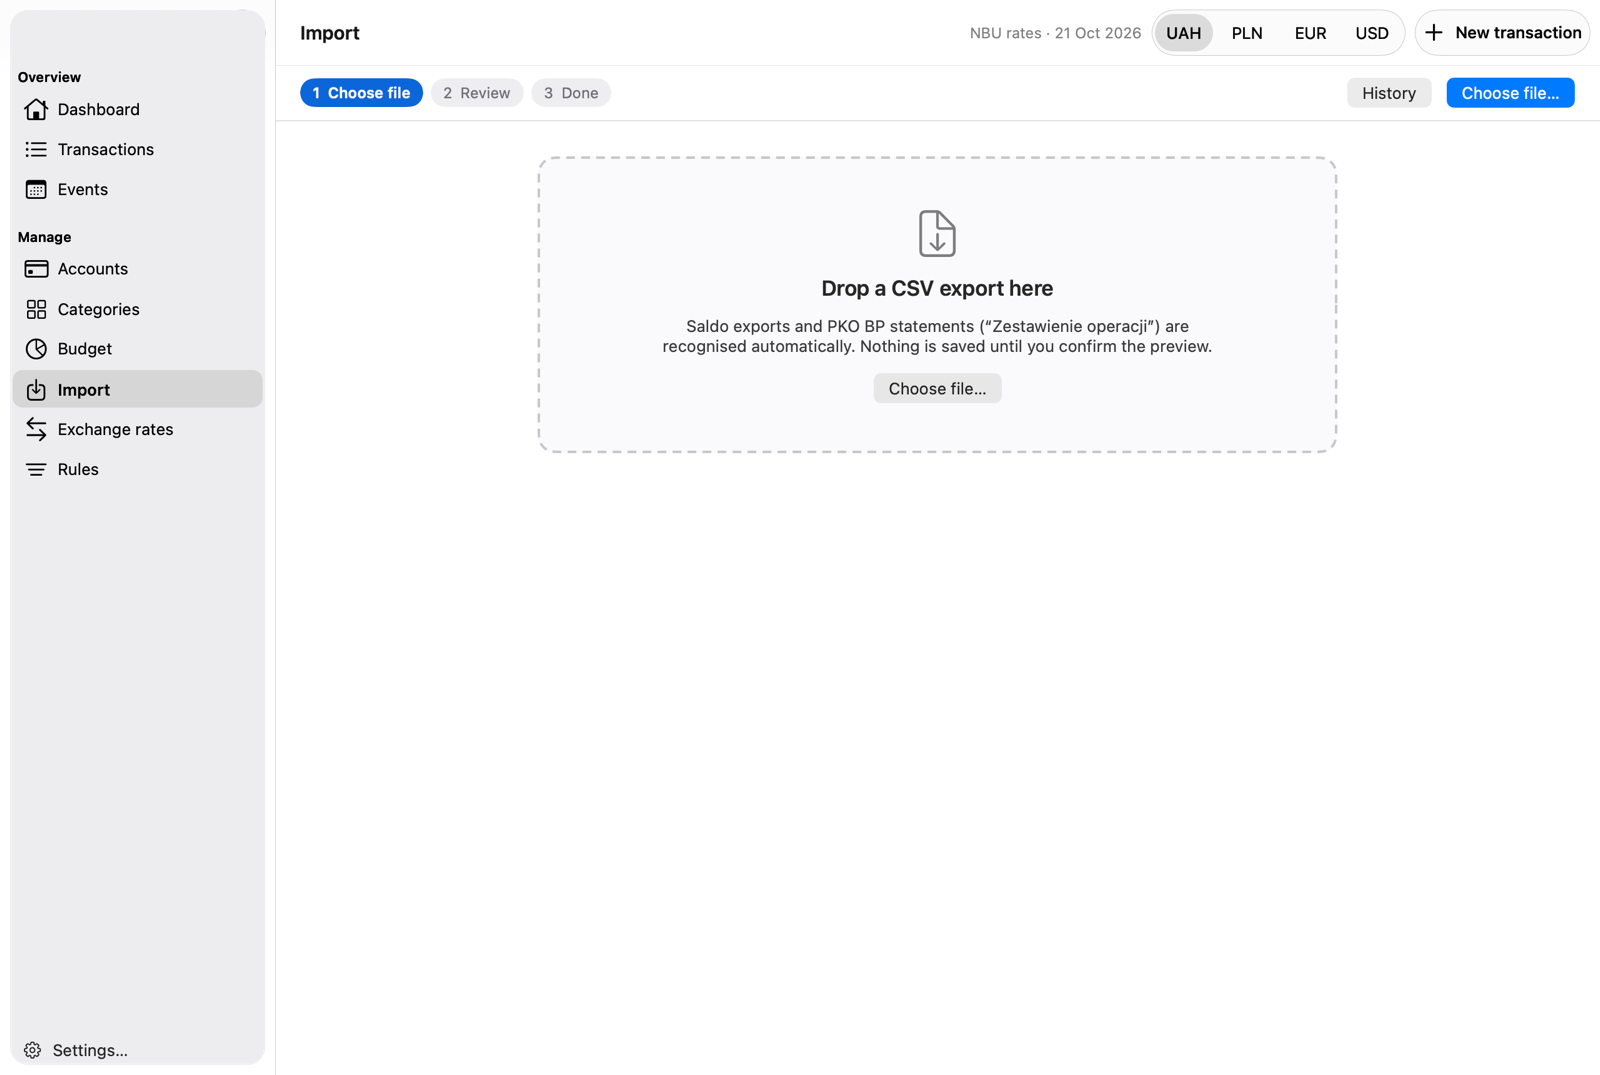
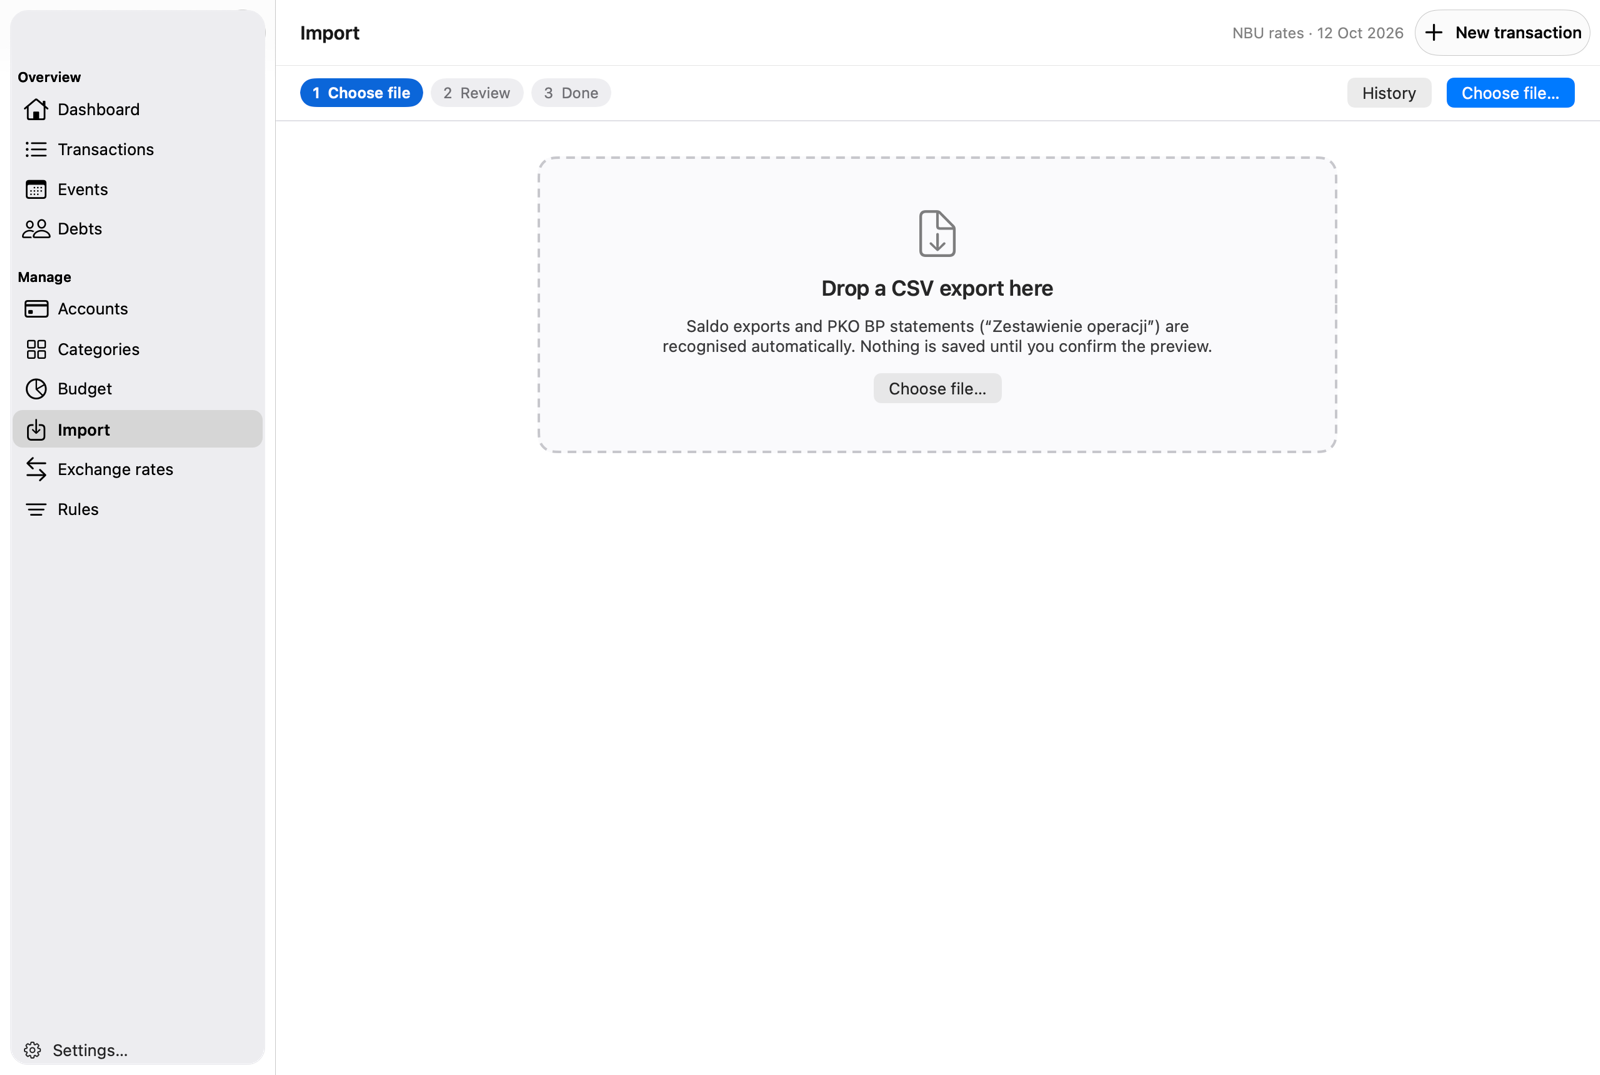
README and screenshots for 1.2.1; status and hand-off brought up to date
- README: features for groups, debts, rules rollback, widgets; updating note; ⌘1…⌘0
- New screenshots from Load Sample Data on scratch databases: dashboard (light, dark),
  transactions, accounts, categories, budget, debts, rules, import, rates, settings
- STATUS: Now / Next / Open items for 1.2.1; PLAN: test builds 1.1.0 and 1.2.0 superseded
- NEXT.md: hand-off from the 1.2.1 state

Verified: screenshots reviewed (synthetic data only); docs only otherwise

Changed region(s): [[0.0, 0.1842, 0.1875, 0.4912], [0.7188, 0.0, 0.875, 0.0614]]

diff --git a/README.md b/README.md
@@ -12,35 +12,47 @@ no telemetry; the only network traffic is fetching exchange rates.
 
 ## Features
 
-- **Dashboard**: net worth with a 12-month chart (assets minus liabilities, converted at the
-  latest rate), the month's budget with per-category bars, and a monthly expenses donut. Click a
-  slice to see its transactions. Switch the display currency (UAH, PLN, EUR, USD) at any time.
-- **Accounts**: cash, bank accounts, cards, savings, investments, credit cards, loans and personal
-  debts, in groups, with opening balances. Archive old accounts to keep their history out of
-  net worth.
+- **Dashboard**: net worth with a 12-month chart and a breakdown by account group, the month's
+  budget, monthly expense and income donuts (click a slice to see its transactions), income vs
+  expenses for the last 12 months, and your debts. Drag widgets into the order you like. Switch
+  the display currency (EUR, USD, PLN, UAH) at any time.
+- **Accounts**: cash, bank accounts, cards, savings, investments, credit cards and loans, with
+  opening balances, in **groups** (Monobank, PKO, …) that show their total. Drag an account into
+  a group, or onto another account to make a new group. Search, sort and filter by currency;
+  archive old accounts to keep their history out of net worth.
 - **Transactions**: expenses, income and transfers (also between currencies), refunds, and
   attached lines for fees, cashback or splitting one payment across categories. You can pay in
   any currency and record what the account was actually charged. Pending bank holds are marked
   until they settle.
-- **Transaction list**: last 30 days by default, grouped by day, with filters for date, category,
-  account, type and event, text search, and income / expense / net totals for what you see.
-- **Categories** with one level of subcategories, a **monthly budget** split across categories,
-  and **events** (a trip, a move, the car) that collect spending across categories.
+- **Transaction list**: last 30 days by default, grouped by day, with search, filters for date,
+  category, account, type and event, and income / expense / net totals for what you see.
+- **Categories** with one level of subcategories and their own colours: drag one onto another
+  to nest it, sort by name, custom order or date, and search. Transactions without a category
+  share one built-in "Uncategorised".
+- **Budget**: a monthly total in any currency plus category limits, each in its own currency,
+  with what's left unallocated. **Events** (a trip, a move, the car) collect spending across
+  categories.
+- **Debts**: who owes you and whom you owe, per person and currency: lent, repaid, borrowed,
+  paid on their behalf, forgiven. Choose per record whether it counts as an expense or income,
+  and per debt whether it counts in net worth.
 - **Import** with a preview before anything is saved: Saldo CSV exports (accounts, categories,
   transfers and tags as events) and PKO BP "Zestawienie operacji" CSV statements. Re-importing an
   overlapping file never creates duplicates, likely duplicates from other sources are flagged,
-  your choices become categorisation rules for next time, and any import can be undone.
+  and any import can be undone.
+- **Rules** like "description contains *biedronka* → Groceries" or "amount bigger than 100 →
+  transfer to an account", learned from your import choices or written by hand. Apply a rule to
+  existing transactions and roll it back if it was wrong.
 - **Exchange rates**: official NBU rates fetched on launch and daily, cached for offline use,
   with a 30-day history per currency. Set a manual rate for a day, or from a day on, when your
   bank charged something else.
-- **Settings**: default display currency, how refunds are counted, automatic rate updates, and
-  backup export / restore.
+- **Settings**: default display currency, how refunds are counted, automatic rate updates, the
+  data folder, and backup export / restore.
 
 The full functional description is in the [tech assignment](docs/REQUIREMENTS.md).
 
 ## Screenshots
 
-All screenshots show the built-in sample data (synthetic).
+All screenshots show the built-in sample data: made-up accounts, people and amounts.
 
 <table>
   <tr>
@@ -49,32 +61,46 @@ All screenshots show the built-in sample data (synthetic).
       <sub>Dashboard, dark mode</sub>
     </td>
     <td align="center" valign="top">
-      <img src="docs/screenshots/transactions.png" alt="Transaction list with filters" width="420"><br>
+      <img src="docs/screenshots/transactions.png" alt="Transaction list with search and filters" width="420"><br>
       <sub>Transactions</sub>
     </td>
   </tr>
   <tr>
     <td align="center" valign="top">
-      <img src="docs/screenshots/accounts.png" alt="Accounts grouped with balances and the account editor" width="420"><br>
-      <sub>Accounts</sub>
+      <img src="docs/screenshots/accounts.png" alt="Accounts in groups with their totals" width="420"><br>
+      <sub>Accounts and groups</sub>
     </td>
     <td align="center" valign="top">
-      <img src="docs/screenshots/budget.png" alt="Monthly budget split across categories" width="420"><br>
-      <sub>Monthly budget</sub>
+      <img src="docs/screenshots/categories.png" alt="Categories with subcategories and colours" width="420"><br>
+      <sub>Categories</sub>
     </td>
   </tr>
   <tr>
+    <td align="center" valign="top">
+      <img src="docs/screenshots/budget.png" alt="Monthly budget with a total and limits in several currencies" width="420"><br>
+      <sub>Monthly budget</sub>
+    </td>
+    <td align="center" valign="top">
+      <img src="docs/screenshots/debts.png" alt="Debts per person and currency with records" width="420"><br>
+      <sub>Debts</sub>
+    </td>
+  </tr>
+  <tr>
+    <td align="center" valign="top">
+      <img src="docs/screenshots/rules.png" alt="Rules with description and amount conditions" width="420"><br>
+      <sub>Rules</sub>
+    </td>
     <td align="center" valign="top">
       <img src="docs/screenshots/import.png" alt="Import, step 1: choose a Saldo or PKO file" width="420"><br>
       <sub>Import, step 1</sub>
     </td>
+  </tr>
+  <tr>
     <td align="center" valign="top">
       <img src="docs/screenshots/rates.png" alt="Exchange rates with 30-day history and manual rates" width="420"><br>
       <sub>Exchange rates</sub>
     </td>
-  </tr>
-  <tr>
-    <td align="center" valign="top" colspan="2">
+    <td align="center" valign="top">
       <img src="docs/screenshots/settings-general.png" alt="Settings, General tab" width="420"><br>
       <sub>Settings › General</sub>
     </td>
@@ -97,6 +123,10 @@ All screenshots show the built-in sample data (synthetic).
    xattr -dr com.apple.quarantine /Applications/Abacus.app
    ```
 
+**Updating**: quit Abacus, then replace the app. A new version may update the database on its
+first launch, so back up `~/Library/Application Support/Abacus/abacus.sqlite` first (or use
+Settings › Data › Export backup).
+
 To check the download, compare `shasum -a 256 Abacus-<version>.dmg` with the published
 `.sha256` file.
 
@@ -112,9 +142,9 @@ Abacus starts empty. Pick one:
   (remembered for next time). Import newer statements whenever you like: rows already imported
   are skipped and pending card holds are updated when they settle.
 - **Just look around**: **Help › Load Sample Data** fills an empty database with synthetic
-  accounts, transactions and a budget. It does nothing if you already have data.
+  accounts, transactions, a budget, events and debts. It does nothing if you already have data.
 
-Then add transactions by hand with **New transaction** (⌘N). Sections are on ⌘1…⌘9, Refresh
+Then add transactions by hand with **New transaction** (⌘N). Sections are on ⌘1…⌘0, Refresh
 Rates is ⌘R, Settings is ⌘,.
 
 ## Your data

diff --git a/docs/STATUS.md b/docs/STATUS.md
@@ -1,19 +1,29 @@
 # Status
 
-_Last updated: 2026-10-27 (orchestrator)_
+_Last updated: 2026-10-27 (orchestrator, late)_
 
 ## Now
 
-_Updated 2026-10-22 (orchestrator)._ **v1 is feature-complete and merged** (P0, D1, A1–A6,
-B1–B6, C1, C2, R1). 534 tests pass locally (incl. real-data tests); the app builds; GitHub CI
-is not used (D37). The owner's real Saldo history and PKO statement are in the app database.
+_Updated 2026-10-27 (orchestrator)._ **1.2.1 is on `main`** (version 1.2.1, build 4) and is the
+build the owner is testing; it is **not tagged**. Released so far: only `v1.0.0` (tag, 2026-10-27).
+1.1.0 and 1.2.0 were test builds and are folded into 1.2.1 (see CHANGELOG).
 
-_Updated 2026-10-27:_ C3 merged — the Import section no longer grows the window (root cause:
-a vertical `fixedSize` on the choose-file paragraph; see `docs/status/C3.md`). Every section now
-opens at the same default window height. **v1.0.0 released 2026-10-27**: tag `v1.0.0`, DMG built
-locally with `scripts/build-dmg.sh` (`dist/Abacus-1.0.0.dmg`, not committed; `hdiutil verify`
-valid, app codesign valid). Remaining: owner review of the app on real data and of the C2
-interpretations (D40); deferred small items on request.
+- Done since v1.0.0 (all merged, gate green, 695 tests incl. real-data tests):
+  - Phase 3c, owner review of 1.0.0: C3 import window height, C4 navigation, C5 colours,
+    C6 budget currency, C7 rules.
+  - Phase 3d, owner review of 1.1.0: C8 budget total, C9 rules rollback, C10 categories,
+    C11 transactions/events, C12 account groups, C13 dashboard widgets, C14 debts.
+  - Phase 3e, stability: S1 crashes and speed, S2 native outline lists and sheet editors,
+    S3 budget Save states and the rules tester removed.
+- Database: migrations v4–v11 run on the owner's real database at the first launch of 1.1.0+.
+  The debts conversion (v10) was checked on the real Saldo export in memory (balances and net
+  worth unchanged). The owner backs up `abacus.sqlite` before installing.
+- README rewritten for 1.2.1 with new screenshots (sample data only, 2026-10-27).
+- `build.noindex/` is the build output folder (Spotlight skips it); the old `build/` can be deleted.
+
+**Waiting on the owner**: test 1.2.1 (`dist/Abacus-1.2.1.dmg`), especially real mouse drag and
+drop, then the OK to tag `v1.2.1`; confirm the lane interpretations in `docs/status/C6.md` to
+`C14.md` and `S1.md`–`S3.md`.
 
 ## Done
 
@@ -26,8 +36,16 @@ interpretations (D40); deferred small items on request.
 
 ## Next
 
-See "Open items" at the end: Import window height, then the v1.0.0 DMG and tag. The hand-off for
-a new orchestrator session is `docs/NEXT.md` (`scripts/next-session.sh` prints and copies it).
+1. Owner tests 1.2.1; fix what they report on a lane, rebuild the DMG.
+2. On the owner's OK: set the CHANGELOG date for 1.2.1, commit, tag `v1.2.1`, push the tag,
+   attach `dist/Abacus-1.2.1.dmg` (+ `.sha256`) to a GitHub release (text drafted in the session:
+   fixed / changed / install / back up first).
+3. Deferred, only on request: merge the "card" and "bank account" kinds (they behave the same);
+   SQL aggregates for balances/usage counts beyond ~20k transactions (S1); combine the save
+   cascade's per-screen reloads (S1).
+
+The hand-off for a new orchestrator session is `docs/NEXT.md` (`scripts/next-session.sh` prints
+and copies it).
 
 ## In flight
 
@@ -136,29 +154,24 @@ a new orchestrator session is `docs/NEXT.md` (`scripts/next-session.sh` prints a
 - Contracts on `main` for Phase 3 lanes: `TxnQuery.includeUncategorised`, `TxnQuery.importBatchIDs`,
   `SettingKey.lastBackupExport`.
 
-## Open items (2026-10-22)
+## Open items (2026-10-27)
 
-- ~~Import window height~~ → fixed in C3 (2026-10-27). Note: the in-app snapshot of the
-  default window is 1,018 pt on the owner's 1,117 pt-high screen for every section, not the
-  860 pt in `.defaultSize`; that is the window default, not an Import leak.
-- ~~Release~~ → v1.0.0 tagged and pushed 2026-10-27 (DMG local only).
-- **1.2.1 (stability + owner review of 1.2.0, S1–S3)**: merged on `main`, version 1.2.1 (build 4), DMG
-  built locally for owner testing; not tagged. Soak run on a 5,000-transaction scratch database:
-  no crash; debug-build main-thread pauses of 120–600 ms remain around sheet open/close.
-  Real mouse drag and drop not yet tried by anyone but the owner.
-- **1.2.0 (owner review of 1.1.0, C8–C14)**: merged on `main`, version 1.2.0 (build 3), DMG
-  built locally for owner testing; **not tagged** until the owner's OK. First launch runs
-  migrations v8–v11 (rule applications, category createdAt, debts, account groups) on the real
-  database; owner backs up `abacus.sqlite` first. Lane interpretations to confirm are in
-  `docs/status/C8.md` … `C14.md`.
-- **1.1.0 (owner review of 1.0.0, C4–C7)**: merged on `main`, version 1.1.0 (build 2), DMG built
-  locally for owner testing; **not tagged** until the owner has tested it. First launch runs
-  migrations v4–v6 on the real database (tested only on synthetic pre-change databases) — owner
-  backs up `abacus.sqlite` first. Owner to confirm the C6 and C7 interpretations (status notes).
-- **Deferred, small**: an open editor doesn't pick up rates fetched by other screens until its own
-  request returns (C2); per-protocol count/balance queries for very large data (B5/C1 notes).
-- **Owner checks**: real-data look of every screen; 281 "Uncategorised" rows to review (Import /
-  Transactions › Categories › Uncategorised); C2 choices (D40).
+- ~~Import window height~~ → fixed in C3.
+- ~~Release v1.0.0~~ → tagged and pushed 2026-10-27.
+- ~~1.1.0 / 1.2.0 test builds~~ → superseded by 1.2.1.
+- **1.2.1**: owner testing; tag after the OK. Known: debug-build main-thread pauses of
+  120–600 ms around sheet open/close (AppKit animation, S1); real mouse drag and drop on the new
+  outline lists not yet tried by anyone but the owner (no Accessibility permission for
+  synthetic events here).
+- **Owner checks**: lane interpretations (C6–C14, S1–S3 status notes); "Uncategorised" rows to
+  review; C2 choice D40 (data folder move deletes the old file after a verified copy).
+- **Deferred, small**: an open editor doesn't pick up rates fetched by other screens until its
+  own request returns (C2); card vs bank account merge; very-large-data SQL aggregates.
+
+Debug tools for checks (DEBUG builds, scratch databases only): `-AbacusLoadLargeSampleData YES`,
+`-AbacusSoak YES`, `-AbacusHangWatch YES`, `-AbacusOpenSheet …`, `-AbacusDashboardScrollTo …`,
+`-AbacusBudgetDemo edited|saved`, `-AbacusWindowWidth/-AbacusWindowHeight` (see the S1, S2, S3,
+C11, C13, C14 status notes).
 
 ## How to check the UI safely (never on the owner's real data)
 

diff --git a/docs/NEXT.md b/docs/NEXT.md
@@ -14,20 +14,23 @@ commit and push without asking.
    check the UI safely"), `docs/PLAN.md`, `docs/DECISIONS.md`. Skim `docs/REQUIREMENTS.md`
    only for the requirement IDs you touch.
 2. Check the ground truth before acting: `git status`, `git log --oneline -15`, then run the
-   gate from `AGENTS.md` — `swift test` in `AbacusKit/` and the app build, both with
-   `DEVELOPER_DIR=/Applications/Xcode.app/Contents/Developer`. Real-data tests run with
+   gate from `AGENTS.md` — `swift test` in `AbacusKit/` and the app build (`-derivedDataPath
+   build.noindex`), both with `DEVELOPER_DIR=/Applications/Xcode.app/Contents/Developer`. Real-data tests run with
    `ABACUS_SAMPLES=$PWD/samples/private` and print counts only.
-3. Finish the open items in `docs/STATUS.md`, in this order:
-   a. **Import window height** — the Import section makes the main window taller than the
-      860 pt default. Reproduce with the in-app snapshot on a temporary database
-      (`CFFIXED_USER_HOME=<scratch>` plus `-AbacusDatabasePath <scratch>/demo.sqlite
-      -AbacusLoadSampleData YES -AbacusSection importFiles -AbacusSnapshotDir <scratch>
-      -AbacusSnapshotName import -AbacusSnapshotDelay 5`; compare the PNG height with the
-      Dashboard's). Fix it in `App/macOS/Import/`, verify, commit.
-   b. **Release v1.0.0** — on final `main`: `scripts/build-dmg.sh`, `hdiutil verify` the DMG,
-      set the CHANGELOG date to the release day, commit, tag `v1.0.0`, push the commit and the
-      tag. Report the DMG path, size and SHA-256 to the owner. Never commit the DMG.
-   c. Pick up the small deferred items listed there only if the owner asks.
+3. State as of 2026-10-27: everything planned is merged on `main` — v1.0.0 (tagged), then the
+   owner-review rounds C3–C14 and the stability round S1–S3 (see `docs/PLAN.md` Phases 3c–3e).
+   `main` is version **1.2.1** (build 4); the owner is testing `dist/Abacus-1.2.1.dmg`; it is
+   **not tagged**. Done and no longer to do: the Import window height (C3) and the v1.0.0
+   release. Next, in this order:
+   a. **Owner feedback on 1.2.1** — triage it into bugs vs features, stability and
+      performance first (owner rule, D54). Reproduce crashes from
+      `~/Library/Logs/DiagnosticReports/Abacus-*.ips` (stacks only) and with the DEBUG soak
+      (`-AbacusSoak YES -AbacusHangWatch YES` on a scratch database with
+      `-AbacusLoadLargeSampleData YES`). Fix on lanes, merge, rebuild the DMG.
+   b. **Release v1.2.1** on the owner's OK: set the CHANGELOG date, commit, tag `v1.2.1`, push
+      the tag; report DMG path, size and SHA-256. Never commit the DMG. The owner publishes the
+      GitHub release.
+   c. Deferred items in `docs/STATUS.md` ("Next" 3, "Open items") only if the owner asks.
 4. For larger work, run lanes as described in `docs/PLAN.md` §4 (one work package per agent,
    each in its own git worktree on a `wp/<id>-<slug>` branch, progress in
    `docs/status/<id>.md`); review each lane's diff scope, run the gate, merge with `--no-ff`,
@@ -39,7 +42,7 @@ Hard rules (from the owner; also in `AGENTS.md`):
 - The owner's real data lives in `~/Library/Application Support/Abacus/abacus.sqlite` and
   `samples/private/` (git-ignored). Never write to the real database from tests or tools, never
   screenshot it, never copy real names or amounts into the repository. Use temporary databases
-  with Load Sample Data for anything visual.
+  with Load Sample Data (synthetic) for anything visual; README screenshots use only that.
 - Git identity is the repo's own (`andrii-habchak`, personal email) and the remote uses the SSH
   alias `github-vigil`; never change them.
 - GitHub CI is not used (free account, D37); the local gate decides.

diff --git a/docs/PLAN.md b/docs/PLAN.md
@@ -125,7 +125,7 @@ Each owns `App/macOS/<Feature>/**` and `AbacusFeatures/<Feature>/**`.
   transaction icons. Migration "v4: colours".
 - [x] **C6 Budget currency** (merged 2026-10-27) — per-category limit currency, no separate total. Migration "v5".
 - [x] **C7 Rules** (merged 2026-10-27) — Saldo-like conditions and category/transfer actions. Migration "v6: rules".
-- [ ] **Release 1.1.0** — DMG built for owner testing; superseded by the 1.2.0 round below.
+- [x] **Release 1.1.0** — test build only; superseded by 1.2.1.
 
 ### Phase 3d — Owner review of 1.1.0 (2026-10-27, TA v1.6, D46–D50)
 Wave 1 (parallel):
@@ -142,13 +142,13 @@ Wave 2:
   net worth hierarchy.
 - [x] **C13 Dashboard widgets** (merged 2026-10-27) — income donut, income vs expenses, drag-reorder widgets.
 - [x] **C14 Debts** (merged 2026-10-27; migration v10; widget scroll fix pending) — `R-DEBT` (TA v1.7, D51).
-- [ ] **Release 1.2.0** — DMG built for owner testing; superseded by 1.2.1 below.
+- [x] **Release 1.2.0** — test build only; superseded by 1.2.1.
 
 ### Phase 3e — Stability and owner review of 1.2.0 (2026-10-27, D54–D56)
 - [x] **S1 Stability and performance** (merged 2026-10-27) — crashes (binding force-unwrap, Escape), hangs, reload storms, timing on owner-size data.
 - [x] **S2 Accounts and categories lists** (merged 2026-10-27) — native outline drag and drop, sheet editors, split New account button, new-tx prefill for accounts.
 - [x] **S3 Budget and rules polish** (merged 2026-10-27) — Save button states, remove the rules tester row.
-- [ ] **Release 1.2.1**.
+- [ ] **Release 1.2.1** — DMG built 2026-10-27, owner testing; tag after the OK.
 
 ### Phase 4 — v2 (planned after v1)
 iOS app on `AbacusFeatures`, iCloud sync via SQLiteData `SyncEngine` (needs the paid Apple
